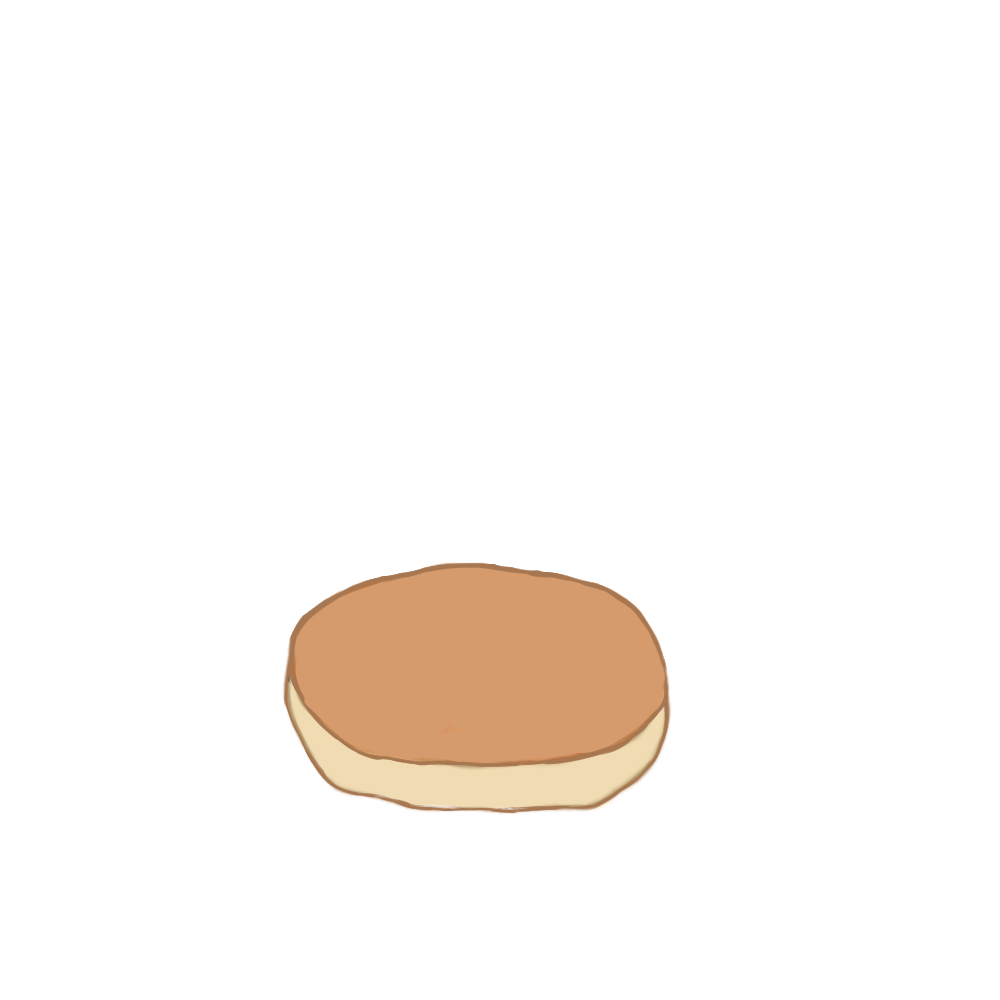
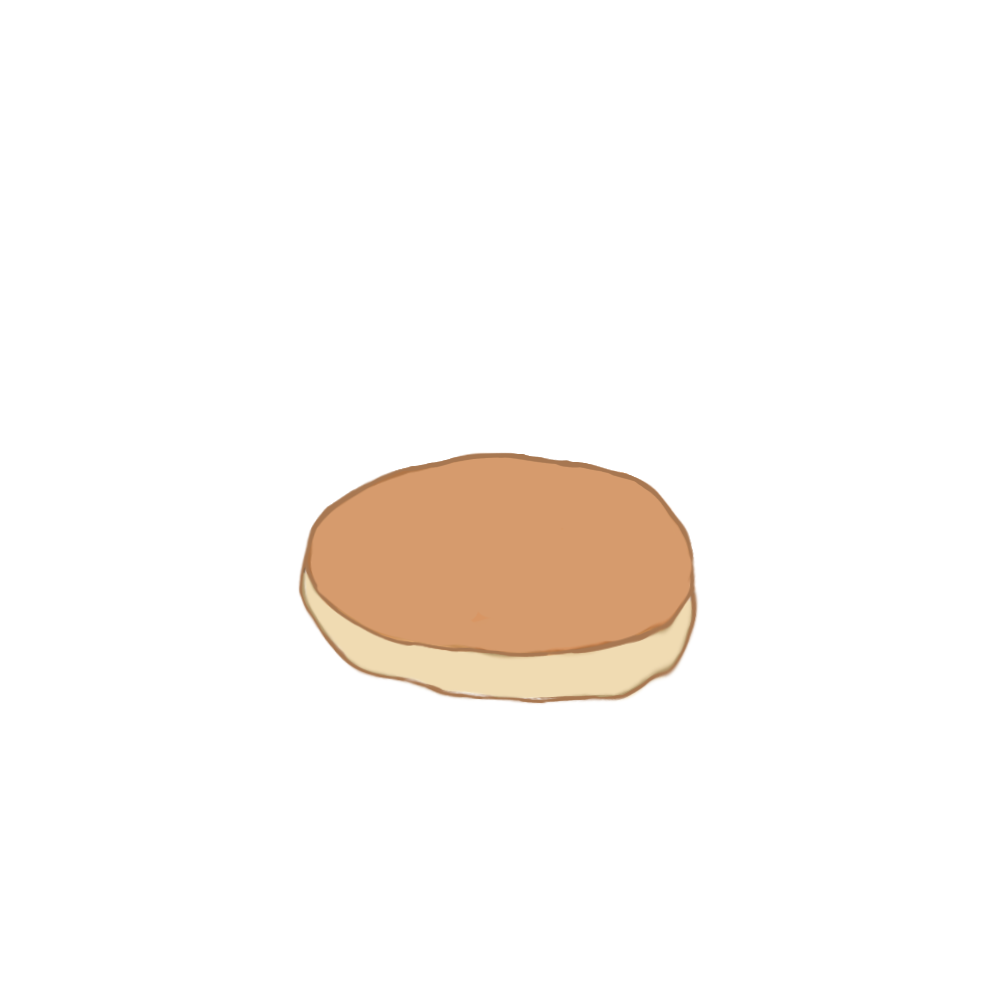
first customization screen mostly working

Changed region(s): [[0.279, 0.434, 0.713, 0.837]]

diff --git a/script.js b/script.js
@@ -1,11 +1,61 @@
 let startButton = document.querySelector("#startButton")
 let title = document.querySelector("#title")
+let right = document.querySelector("#right")
+let left = document.querySelector("#left")
+let textElement = document.getElementById("text")
+let text = 'one';
+let pancakeCounter = 0;
 function start() {
   document.getElementById("title").style.visibility = "hidden";
   document.getElementById("startButton").style.visibility = "hidden";
-  console.log ('hi')
+  document.getElementById("right").style.visibility = "visible";
+  document.getElementById("left").style.visibility = "visible";
+  document.getElementById("next").style.visibility = "visible";
+  textElement.style.visibility = "visible";
+  textElement.innerText = text;
+  let pancake = document.createElement('img')
+  pancake.src = './assets/pancake.PNG';
+  pancake.classList.add('pancake')
+  pancake.style.width='700px';
+  document.body.appendChild(pancake);
+}
+function renderPancake() {
+if (pancakeCounter == 0) {
+  text = 'one';
+  textElement.innerText = text;
+  pancake.src = './assets/pancake.PNG'
+}
+if (pancakeCounter==1) {
+  text = 'two';
+  textElement.innerText = text;
+  pancake.src = './assets/pancake2.PNG'
+}
+if (pancakeCounter==2) {
+  text = 'three';
+  textElement.innerText = text;
+   pancake.src = './assets/pancake3.PNG'
+}
 }
 startButton.addEventListener("click",function(){
-console.log ('i')
 start()
 })
+left.addEventListener("click",function(){
+  if (pancakeCounter<1) {
+    pancakeCounter=2
+  }
+  else {
+    pancakeCounter --
+  }
+  renderPancake()
+})
+console.log(right)
+right.addEventListener("click",function () {
+  if (pancakeCounter>1) {
+    pancakeCounter=0
+  }
+  else {
+    pancakeCounter ++
+  }
+  renderPancake()
+})
+//start()

diff --git a/index.html b/index.html
@@ -7,12 +7,21 @@
   <link rel="stylesheet" href="./style.css">
  </head>
 <body>
+<div id="everythingDiv">
   <div id="mainDiv">
     <div id="titleDiv">
       <img id= "title" src= "./assets/title.PNG">
      <button id="startButton"><img id=start src="./assets/startButton.PNG"></button>
     </div>
   </div>
+  <div id="buttons">
+    <button class="button" id="left"><</button>
+    <button class="button" id="text">one</button>
+    <button class="button" id="right">></button>
+  </div>
+  <br>
+  <button class="button" id="next">next</button>
+</div>
   <script src="./script.js"></script>
 </body>
 </html>

diff --git a/style.css b/style.css
@@ -19,11 +19,30 @@ body {
 #start {
   width:150px;
 }
-#pancake {
-  position:absolute;
+.pancake {
+  inset: 0;
+  margin:auto;
+  position: absolute;
 }
 #titleDiv {
   display: flex;
   justify-content: center;
   position: relative;
+}
+#buttons {
+  display: flex;
+  gap:30px;
+}
+.button {
+  width: 50px;
+  height: 40px;
+  position:relative;
+  top:500px;
+  visibility: hidden;
+  z-index: 1;
+}
+#everythingDiv {
+  display: flex;
+  flex-direction: column;
+  align-items:center;
 }
